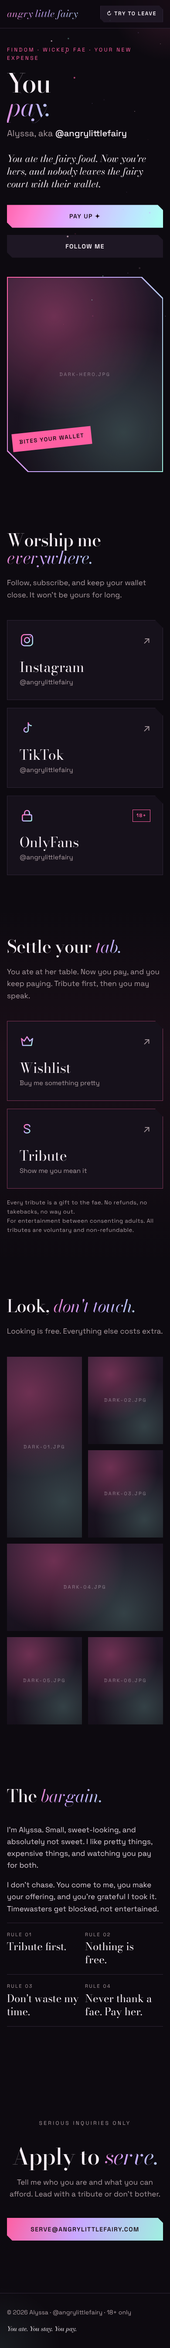
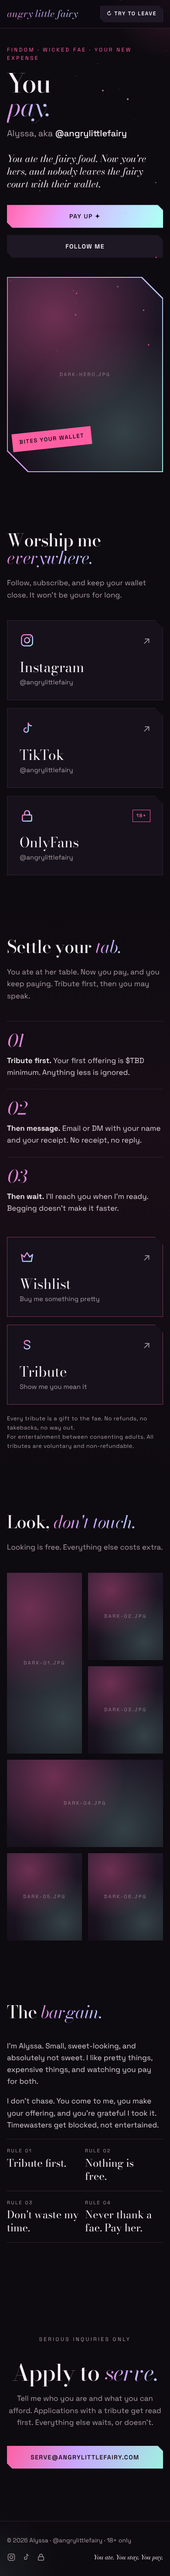
Optimize copy structure: approach steps, reply expectations, footer socials, nosnippet on 18+ side
Claude-Session: https://claude.ai/code/session_01Csc1tEQz1VbwPjDFxQWG6q

Changed region(s): [[0.0308, 0.0, 0.9846, 0.8748], [0.0308, 0.9061, 0.9538, 0.9998]]

diff --git a/angrylittlefairy-site/index.html b/angrylittlefairy-site/index.html
@@ -3,7 +3,7 @@
 <head>
 <meta charset="utf-8">
 <meta name="viewport" content="width=device-width, initial-scale=1">
-<title>Alyssa · @angrylittlefairy</title>
+<title>Alyssa (@angrylittlefairy) · Model &amp; Creator</title>
 <meta name="description" content="Alyssa, aka @angrylittlefairy. Model, creator and a sweet little fae. She feeds.">
 <meta property="og:title" content="Alyssa · @angrylittlefairy">
 <meta property="og:description" content="Model, creator and a sweet little fae. She feeds.">
@@ -190,6 +190,24 @@
   .fine { margin-top: 22px; font-size: 13px; color: var(--muted); letter-spacing: .04em; }
   .tribute { background: linear-gradient(180deg, transparent, rgba(255,95,162,.05) 40%, transparent); }
 
+  /* how to approach */
+  .steps { display: grid; grid-template-columns: repeat(3, 1fr); gap: 18px; margin-bottom: 28px; }
+  .step { padding: 24px 0; border-top: 1px solid var(--line); }
+  .step b { display: block; font-family: var(--serif); font-style: italic; font-weight: 400; font-size: 40px; line-height: 1; margin-bottom: 12px; }
+  .step p { color: var(--body-text); }
+  .step strong { color: var(--ink); font-weight: 600; }
+
+  /* chips */
+  .chips { display: flex; flex-wrap: wrap; gap: 8px; margin: 4px 0 22px; }
+  .chips span { font-size: 12px; font-weight: 500; letter-spacing: .1em; text-transform: uppercase; padding: 6px 12px; border: 1px solid var(--line); color: var(--ink); background: var(--surface); }
+  .reply { font-size: 14px; color: var(--muted); }
+
+  /* footer socials */
+  .foot-social { display: inline-flex; gap: 14px; }
+  .foot-social a { width: 20px; height: 20px; color: var(--muted); transition: color .2s; }
+  .foot-social a:hover { color: var(--pink); }
+  .foot-social svg { width: 100%; height: 100%; }
+
   /* gallery */
   .gallery { display: grid; grid-template-columns: repeat(3, 1fr); grid-auto-rows: 260px; gap: 14px; }
   .gallery .ph { cursor: zoom-in; }
@@ -225,7 +243,7 @@
   .contact p { color: var(--muted); margin: 20px auto 40px; max-width: 40ch; }
 
   footer { border-top: 1px solid var(--line); padding: 32px 0; color: var(--muted); font-size: 14px; }
-  footer .wrap { display: flex; justify-content: space-between; gap: 16px; flex-wrap: wrap; }
+  footer .wrap { display: flex; justify-content: space-between; align-items: center; gap: 16px; flex-wrap: wrap; }
   footer em { font-family: var(--serif); color: var(--ink); }
 
   /* overlays live outside the flipping page */
@@ -245,7 +263,8 @@
     .hero { padding: 40px 0 64px; }
     .hero .wrap, .about .wrap { grid-template-columns: 1fr; gap: 44px; }
     .hero-media { max-width: 440px; }
-    .links, .links.two { grid-template-columns: 1fr; }
+    .links, .links.two, .steps { grid-template-columns: 1fr; }
+    .steps { gap: 0; }
     .gallery { grid-template-columns: 1fr 1fr; grid-auto-rows: 200px; }
     .gallery .wide { grid-column: span 2; }
     .gallery .wide:last-child { grid-column: span 1; }
@@ -360,13 +379,17 @@
           <!-- EDIT: sweet side bio -->
           <p>Model, creator and professional sweetheart. I shoot editorial, glam and soft fantasy, and I'm always up for something pretty and a little bit strange.</p>
           <p>Photographers, brands and collabs, I'd love to hear from you.</p>
+          <!-- EDIT: what she's available for -->
+          <div class="chips"><span>Photoshoots</span><span>Brand collabs</span><span>Content creation</span><span>Cosplay &amp; fantasy</span></div>
           <!-- EDIT: email -->
           <a class="btn btn-primary" href="mailto:hello@angrylittlefairy.com?subject=Hi%20Alyssa">Work with me</a>
+          <!-- EDIT: reply time -->
+          <p class="reply" style="margin-top:14px">Include dates, location and the vibe. I usually reply within a few days.</p>
         </div>
       </div>
     </section>
 
-    <section class="teaser">
+    <section class="teaser" data-nosnippet>
       <div class="wrap">
         <div class="card">
           <p class="eyebrow">18+ only</p>
@@ -381,13 +404,14 @@
   <footer>
     <div class="wrap">
       <span>© <span class="yr">2026</span> Alyssa · @angrylittlefairy</span>
+      <span class="foot-social"><a href="https://instagram.com/angrylittlefairy" target="_blank" rel="noopener" aria-label="Instagram"><svg viewBox="0 0 24 24" fill="none" stroke="currentColor" stroke-width="1.8"><rect x="3" y="3" width="18" height="18" rx="5"/><circle cx="12" cy="12" r="4.2"/><circle cx="17.4" cy="6.6" r="1" fill="currentColor" stroke="none"/></svg></a><a href="https://www.tiktok.com/@angrylittlefairy" target="_blank" rel="noopener" aria-label="TikTok"><svg viewBox="0 0 24 24" fill="none" stroke="currentColor" stroke-width="1.8" stroke-linecap="round" stroke-linejoin="round"><path d="M14 3v11.5a3.5 3.5 0 1 1-3.5-3.5"/><path d="M14 3c.4 2.6 2.2 4.4 5 4.6"/></svg></a></span>
       <em>Don't poke the fairy.</em>
     </div>
   </footer>
 </div>
 
 <!-- ============ WICKED SIDE (18+) ============ -->
-<div class="face dark" id="dark" aria-hidden="true">
+<div class="face dark" id="dark" aria-hidden="true" data-nosnippet>
   <nav>
     <div class="wrap">
       <a href="#d-top" class="mark shimmer-text">angry little fairy</a>
@@ -465,6 +489,12 @@
           <h2>Settle your <em class="shimmer-text">tab.</em></h2>
           <p class="section-note">You ate at her table. Now you pay, and you keep paying. Tribute first, then you may speak.</p>
         </div>
+        <!-- EDIT: minimum first tribute -->
+        <div class="steps">
+          <div class="step"><b class="shimmer-text">01</b><p><strong>Tribute first.</strong> Your first offering is $TBD minimum. Anything less is ignored.</p></div>
+          <div class="step"><b class="shimmer-text">02</b><p><strong>Then message.</strong> Email or DM with your name and your receipt. No receipt, no reply.</p></div>
+          <div class="step"><b class="shimmer-text">03</b><p><strong>Then wait.</strong> I'll reach you when I'm ready. Begging doesn't make it faster.</p></div>
+        </div>
         <div class="links two">
           <!-- EDIT: wishlist URL (Throne etc.) -->
           <a class="link-card hot" href="#" target="_blank" rel="noopener">
@@ -527,7 +557,7 @@
       <div class="wrap">
         <p class="eyebrow">Serious inquiries only</p>
         <h2>Apply to <em class="shimmer-text">serve.</em></h2>
-        <p>Tell me who you are and what you can afford. Lead with a tribute or don't bother.</p>
+        <p>Tell me who you are and what you can afford. Applications with a tribute get read first. Everything else waits, or doesn't.</p>
         <!-- EDIT: email -->
         <a class="btn btn-primary" href="mailto:serve@angrylittlefairy.com?subject=Application">serve@angrylittlefairy.com</a>
       </div>
@@ -537,6 +567,7 @@
   <footer>
     <div class="wrap">
       <span>© <span class="yr">2026</span> Alyssa · @angrylittlefairy · 18+ only</span>
+      <span class="foot-social"><a href="https://instagram.com/angrylittlefairy" target="_blank" rel="noopener" aria-label="Instagram"><svg viewBox="0 0 24 24" fill="none" stroke="currentColor" stroke-width="1.8"><rect x="3" y="3" width="18" height="18" rx="5"/><circle cx="12" cy="12" r="4.2"/><circle cx="17.4" cy="6.6" r="1" fill="currentColor" stroke="none"/></svg></a><a href="https://www.tiktok.com/@angrylittlefairy" target="_blank" rel="noopener" aria-label="TikTok"><svg viewBox="0 0 24 24" fill="none" stroke="currentColor" stroke-width="1.8" stroke-linecap="round" stroke-linejoin="round"><path d="M14 3v11.5a3.5 3.5 0 1 1-3.5-3.5"/><path d="M14 3c.4 2.6 2.2 4.4 5 4.6"/></svg></a><a href="https://onlyfans.com/angrylittlefairy" target="_blank" rel="noopener" aria-label="OnlyFans"><svg viewBox="0 0 24 24" fill="none" stroke="currentColor" stroke-width="1.8" stroke-linejoin="round"><rect x="4.5" y="10.5" width="15" height="10" rx="2"/><path d="M8 10.5V7.5a4 4 0 0 1 8 0v3"/></svg></a></span>
       <em>You ate. You stay. You pay.</em>
     </div>
   </footer>
@@ -547,7 +578,7 @@
 
 <svg width="0" height="0" style="position:absolute" aria-hidden="true"><defs><linearGradient id="g" x1="0" y1="0" x2="1" y2="1"><stop offset="0" stop-color="#ff5fa2"/><stop offset=".5" stop-color="#c9a7ff"/><stop offset="1" stop-color="#9ff0e0"/></linearGradient></defs></svg>
 
-<div class="gate dark" id="gate" hidden>
+<div class="gate dark" id="gate" hidden data-nosnippet>
   <div class="gate-box">
     <p class="eyebrow">Adults only</p>
     <h2>Are you <em class="shimmer-text">18<span style="font-family:var(--sans);font-style:normal;font-weight:500">+</span>?</em></h2>
